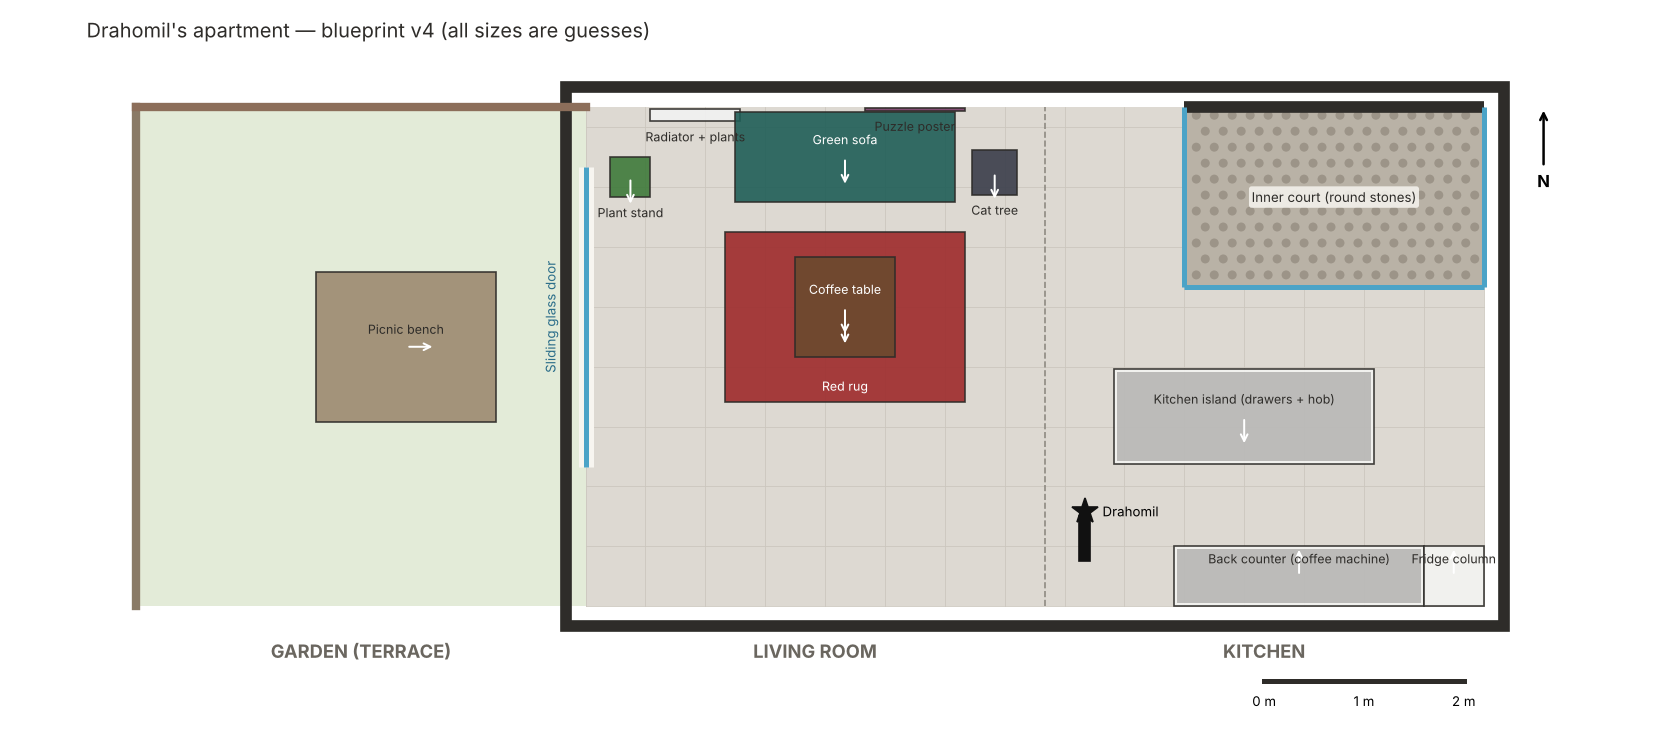
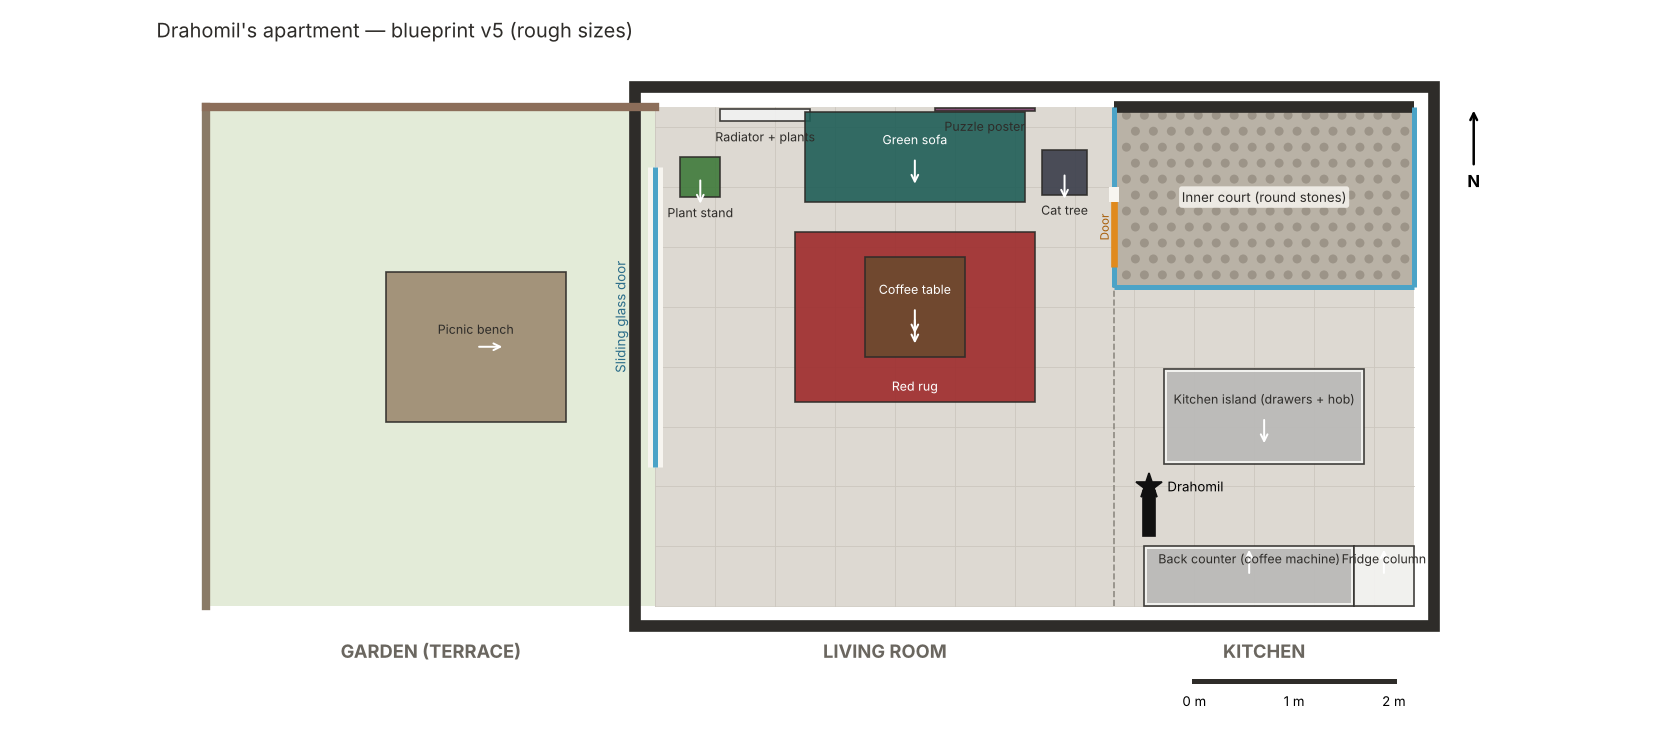
Blueprint v5: kitchen as wide as the court, court door next to the cat tree
Claude-Session: https://claude.ai/code/session_01SZGSXzGr2wVTQ6dNG9kPYP

diff --git a/Tools/Level/render_blueprint.py b/Tools/Level/render_blueprint.py
@@ -82,6 +82,16 @@ def main(src, dst):
             glass = side in c.get("glass", [])
             ax.plot([sx0, sx1], [sz0, sz1], color="#4BA3C7" if glass else "#2E2C29", lw=3 if glass else 7,
                     zorder=8, solid_capstyle="butt")
+        for door in c.get("doors", []):
+            (sx0, sz0), (sx1, sz1) = sides[door["side"]]
+            vertical = sx0 == sx1
+            a, b = door["from"], door["to"]
+            seg = ((sx0, a), (sx0, b)) if vertical else ((a, sz0), (b, sz0))
+            gap = ((sx0, b - door["open_gap"]), (sx0, b)) if vertical else ((b - door["open_gap"], sz0), (b, sz0))
+            ax.plot(*zip(*seg), color="#E08A1E", lw=4, zorder=8.5, solid_capstyle="butt")
+            ax.plot(*zip(*gap), color="#F7F5F0", lw=6, zorder=8.6, solid_capstyle="butt")
+            ax.text(sx0 - 0.1 if vertical else (a + b) / 2, (a + b) / 2 if vertical else sz0 - 0.12, door["label"],
+                    rotation=90 if vertical else 0, ha="center", va="center", fontsize=7, color="#A85F0A", zorder=9)
         ax.text((c["x0"] + c["x1"]) / 2, (c["z0"] + c["z1"]) / 2, c["label"], ha="center", va="center",
                 fontsize=8, zorder=9, color="#2E2C29",
                 bbox=dict(boxstyle="round,pad=0.2", facecolor="#F7F5F0", edgecolor="none", alpha=0.85))
@@ -149,7 +159,7 @@ def main(src, dst):
     ax.annotate("N", xy=(x1 + 0.6, z1), xytext=(x1 + 0.6, z1 - 0.8), ha="center",
                 arrowprops=dict(arrowstyle="->", lw=1.5), fontsize=10, weight="bold")
 
-    ax.set_title(f"{lay['name']} — blueprint v{lay['version']} (all sizes are guesses)", loc="left",
+    ax.set_title(f"{lay['name']} — blueprint v{lay['version']} (rough sizes)", loc="left",
                  fontsize=12, color="#2E2C29")
     ax.set_aspect("equal")
     gx0 = min(r["x0"] for r in rooms)

diff --git a/docs/APARTMENT.md b/docs/APARTMENT.md
@@ -17,7 +17,7 @@ We make a blueprint first. We place and colour the models only after the bluepri
 | Floor | Large dark-grey tiles (about 60 × 60 cm) everywhere inside. |
 | Kitchen | Island with white handle-less drawers, dark-grey top, black induction hob. A back counter with a coffee machine in front of a wood panel wall. |
 | Living room | Teal velvet 3-seat sofa against the far wall. Radiator with plants on the left. Wooden square coffee table on a red patterned rug. Cat tree (grey, sisal post) to the right of the sofa. Puzzle poster above the sofa. |
-| Inner court | Open-air court with round stones, 1.8 m × 3 m, in the north-east corner (north wall = living room north wall, east side = kitchen east wall). Wall-high glass on the south, west and east sides; solid north wall in line with the living room north wall. |
+| Inner court | Open-air court with round stones, 1.8 m × 3 m, same width as the kitchen (3 m). North wall = living room north wall, east side = kitchen east wall. Drahomil enters through the west glass door, which is open a crack, next to the cat tree. Wall-high glass on the south, west and east sides; solid north wall in line with the living room north wall. |
 | Garden side | Floor-to-ceiling sliding glass door. Outside: terrace tiles, a wooden picnic bench, a wooden fence and a brick wall. |
 | Cat ideas | Open drawers to hide in (video), the cat tree, the radiator shelf with plants, the sofa back. |
 
